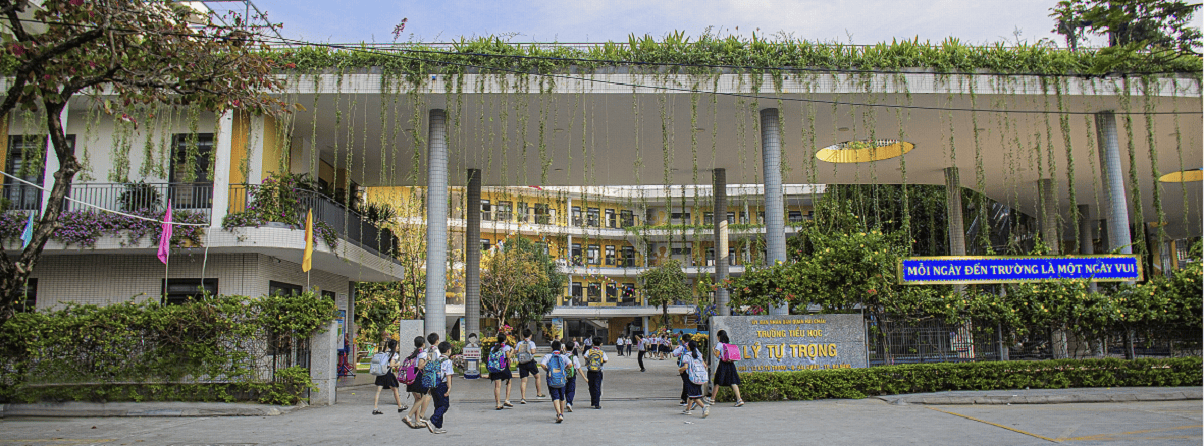
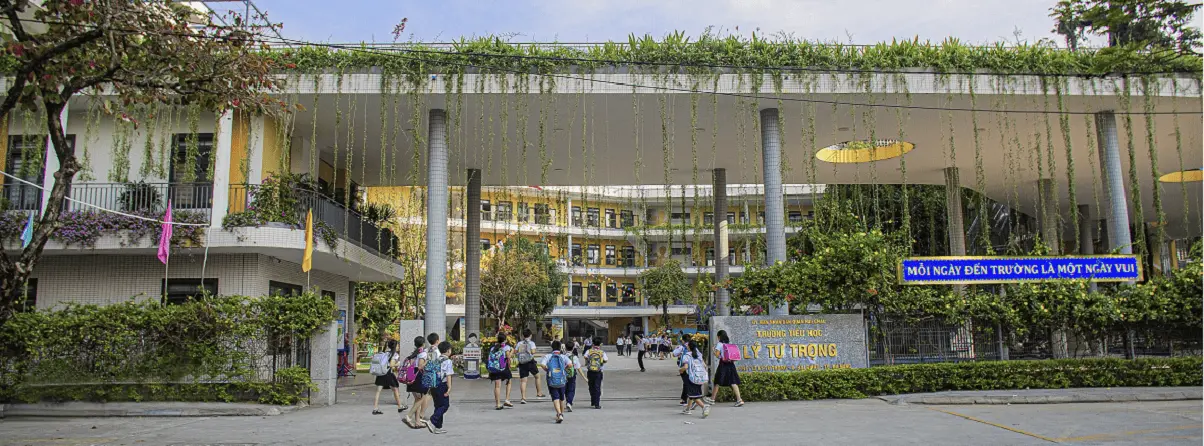
update resize image

diff --git a/src/app/api/upload/temp/route.js b/src/app/api/upload/temp/route.js
@@ -1,6 +1,7 @@
 import { NextResponse } from "next/server";
 import fs from "fs/promises";
 import path from "path";
+import sharp from "sharp";
 
 export async function POST(req) {
   try {
@@ -10,16 +11,29 @@ export async function POST(req) {
     if (!file)
       return NextResponse.json({ error: "No file uploaded" }, { status: 400 });
 
+    // 🔹 File → Buffer
     const arrayBuffer = await file.arrayBuffer();
     const buffer = Buffer.from(arrayBuffer);
 
+    // 🔹 Thư mục upload tạm
     const uploadDir = path.join(process.cwd(), "public/uploads/temp");
     await fs.mkdir(uploadDir, { recursive: true });
 
+    // 🔹 Tên file mới
     const fileName = Date.now() + "-" + file.name.replaceAll(" ", "_");
     const filePath = path.join(uploadDir, fileName);
 
-    await fs.writeFile(filePath, buffer);
+    // 🔹 NÉN + RESIZE + CONVERT WEBP
+    await sharp(buffer)
+      .resize({
+        width: 1600,              // giới hạn chiều rộng
+        withoutEnlargement: true, // không phóng to ảnh nhỏ
+      })
+      .webp({
+        quality: 75,              // 70–80 là tối ưu web
+      })
+      .toFile(filePath);
+    // await fs.writeFile(filePath, buffer);
 
     return NextResponse.json({
       url: "/uploads/temp/" + fileName,

diff --git a/src/app/api/upload/route.js b/src/app/api/upload/route.js
@@ -32,7 +32,17 @@ export async function POST(req) {
       "banner.jpg"
     );
 
-    await writeFile(uploadPath, buffer);
+    await sharp(buffer)
+      .resize({
+        width: 1600,           // resize tối đa
+        withoutEnlargement: true,
+      })
+      .webp({
+        quality: 75,           // 70–80 là đẹp & nhẹ
+      })
+      .toFile(uploadPath);
+
+    // await writeFile(uploadPath, buffer);
 
     return Response.json({ ok: true, message: "Uploaded" });
   } catch (error) {
